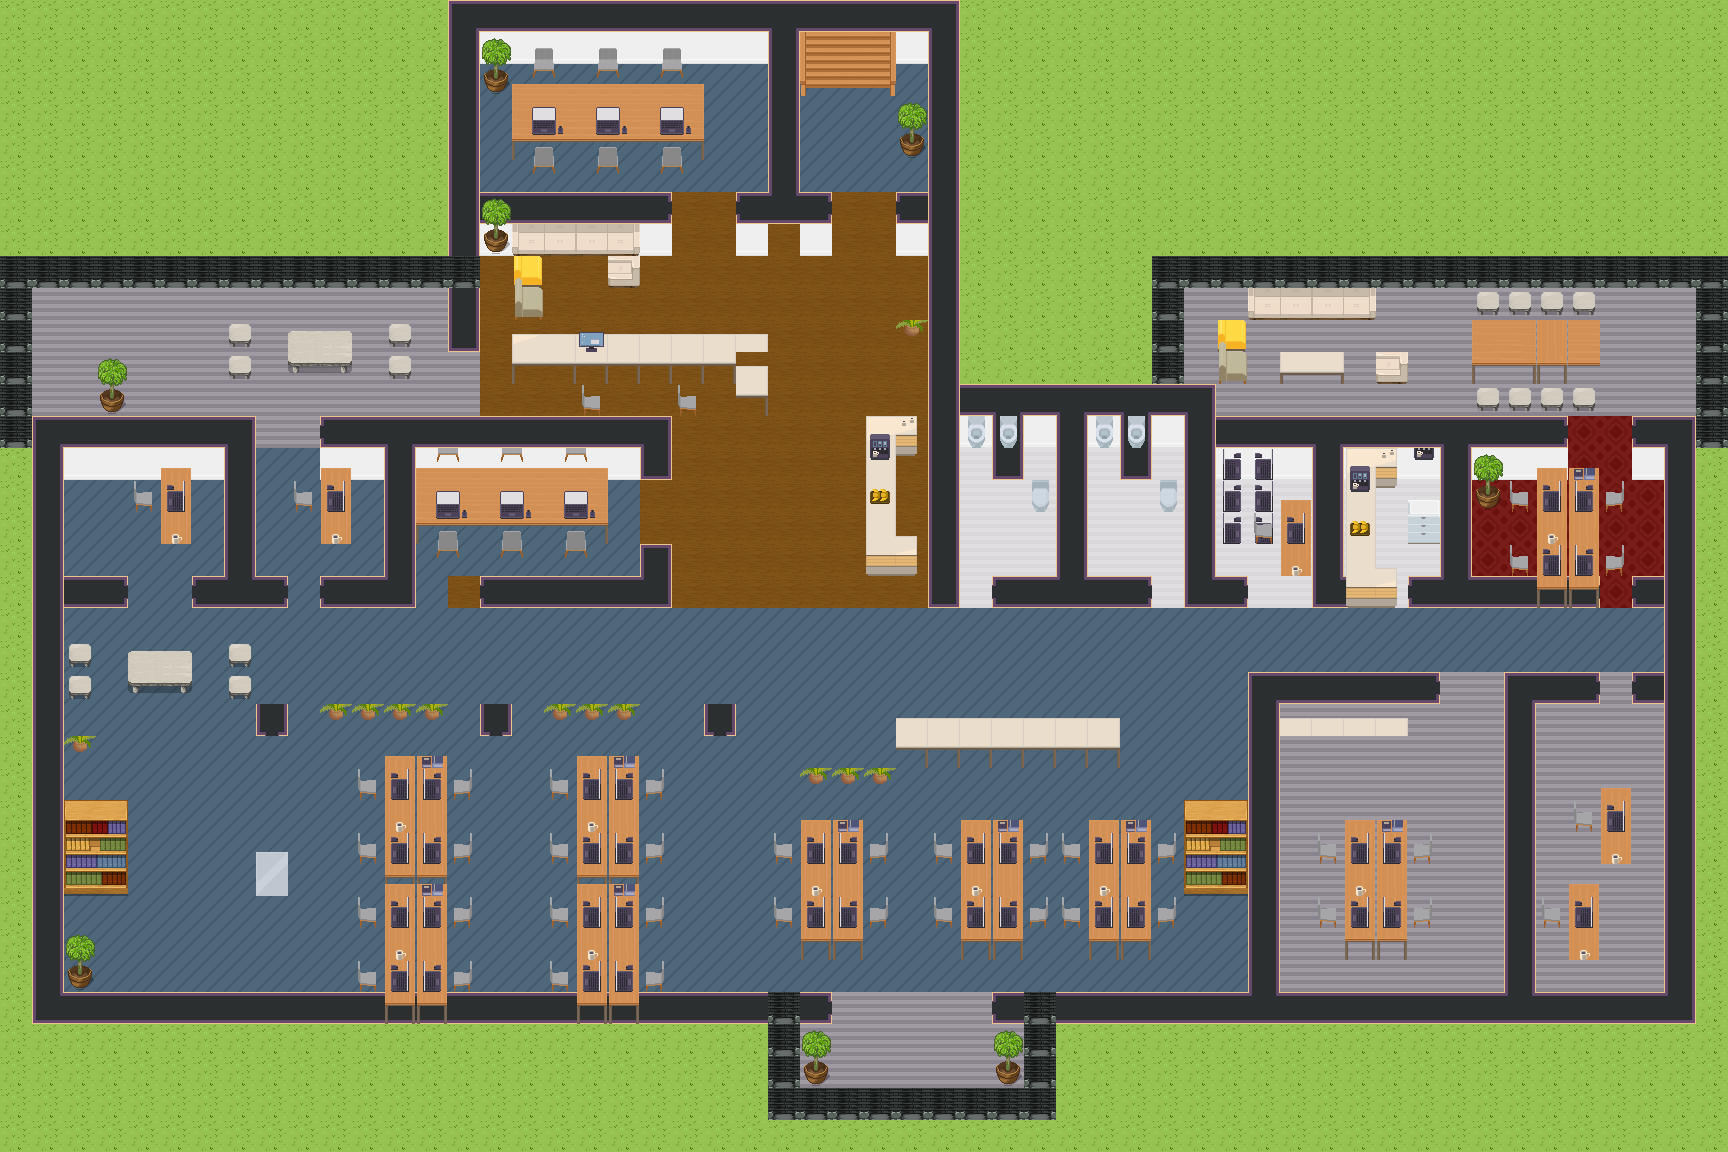
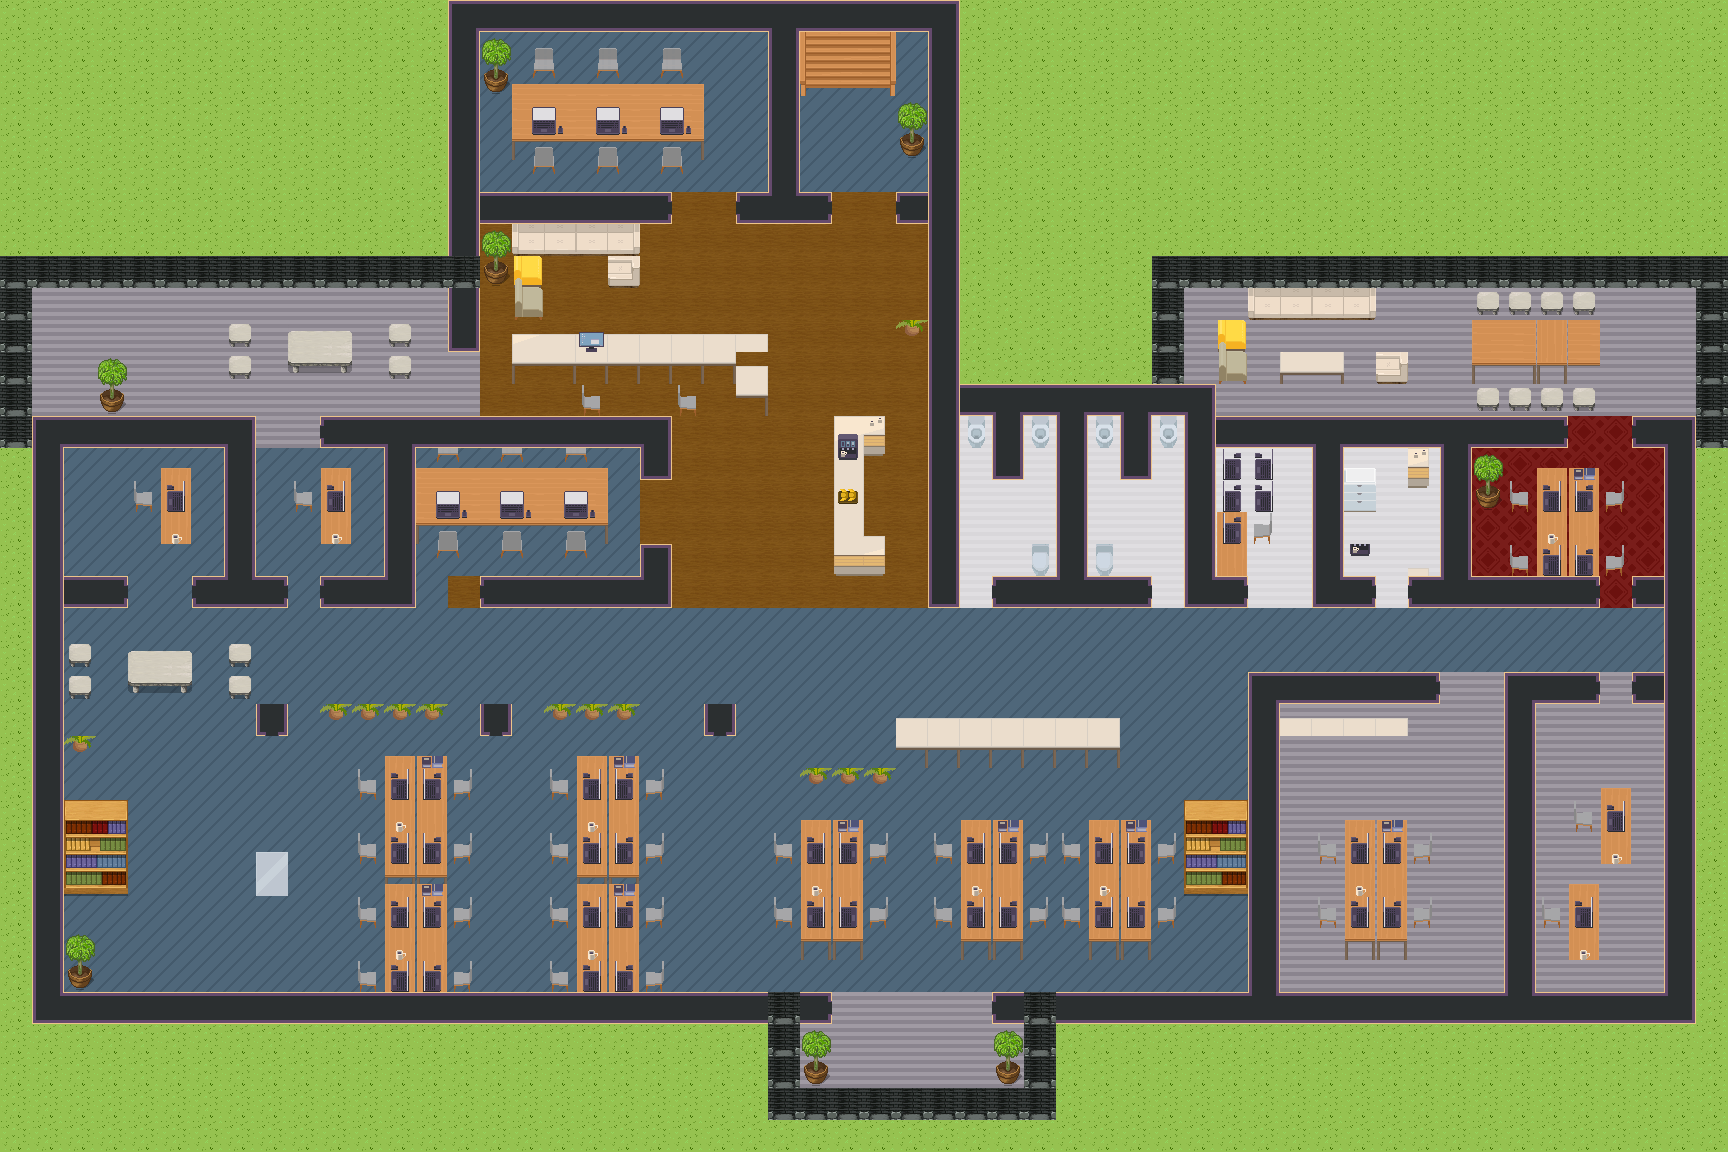
Fix furniture overlapping walls, make all toilets and the kitchen reachable
Add a build-time check for furniture on walls and unreachable floor.

diff --git a/build.py b/build.py
@@ -123,7 +123,7 @@ for y in range(H):
 for (x, y) in list(WALL):
     if wall_tile(x, y) in (479, 403, 404, 535, 440, 438) and (x, y + 1) not in WALL and y + 1 < H \
             and inside[y + 1][x] and y + 1 not in (19, 23) and get('floor1', x, y + 1) not in (STONE, GRASS):
-        put('walls2', x, y + 1, FACE)
+        pass  # faces disabled: they ate the top row of every room
 
 # --- stamps copied from the starter-kit office ---
 FURN = ['furniture1', 'furniture2', 'furniture3', 'above1', 'above2']
@@ -158,7 +158,7 @@ def planter(x0, x1, y):
 # conference room: long table centred
 stamp(*LONGDESK, 16, 1); plant_big(15, 1)
 # lounge: plant, sofa + armchairs, curved reception desk, bar on the right
-plant_big(15, 6)
+plant_big(15, 7)
 stamp(2, 3, 4, 1, 16, 7)                       # sofa
 stamp(1, 4, 1, 2, 16, 8); stamp(6, 5, 1, 1, 19, 8)
 for x in range(16, 23):                        # reception counter, horizontal part
@@ -168,7 +168,7 @@ for y in range(10, 13):                        # reception counter, curved right
     obj('furniture1', 23, y, 1598 if y < 12 else 1608)
 put('furniture2', 18, 10, 110)                 # monitor
 stamp(10, 4, 1, 1, 18, 12, coll=False); stamp(10, 4, 1, 1, 21, 12, coll=False)
-stamp(*COUNTER, 27, 12)                        # bar
+stamp(*COUNTER, 26, 12)                        # bar (walkable lane behind it)
 plant_small(28, 10)
 # left balcony
 stamp(*OUT_TABLE, 7, 10)
@@ -188,18 +188,18 @@ stamp(10, 3, 2, 3, 4, 14); stamp(10, 3, 2, 3, 9, 14)
 stamp(12, 10, 6, 4, 13, 14)
 # WCs
 for bx in (30, 34):
-    obj('furniture1', bx, 13, 284); obj('furniture1', bx + 1, 13, 284); obj('furniture1', bx + 2, 15, 283)
+    obj('furniture1', bx, 13, 284); obj('furniture1', bx + 2, 13, 284); obj('furniture1', 32 if bx == 30 else 34, 17, 283)  # sink away from the door
 # server room: racks + admin desk
-for y in (14, 15, 16): obj('furniture1', 38, y, 133); obj('furniture1', 39, y, 134)
-stamp(10, 3, 2, 3, 39, 15)
+for y in (14, 15): obj('furniture1', 38, y, 133); obj('furniture1', 39, y, 134)
+stamp(12, 4, 2, 2, 38, 16)
 # kitchen: counter, coffee machine, fridge/printer cabinet
-stamp(*COUNTER, 42, 13); obj('furniture1', 44, 14, 165); obj('furniture1', 44, 15, 136); obj('furniture1', 44, 16, 146)
+stamp(2, 8, 1, 4, 44, 14); obj('furniture1', 42, 14, 136); obj('furniture1', 42, 15, 146); obj('furniture1', 42, 17, 165)
 # red meeting room
-plant_big(46, 14); stamp(*DESK4, 47, 14)
+plant_big(46, 14); stamp(10, 3, 4, 4, 47, 14)
 # open space: planters + desk clusters as in Gather
 planter(10, 13, 22); planter(17, 19, 22); planter(25, 27, 24)
-stamp(*DESK4, 11, 23); stamp(*DESK4, 11, 27)
-stamp(*DESK4, 17, 23); stamp(*DESK4, 17, 27)
+stamp(*DESK4, 11, 23); stamp(10, 3, 4, 4, 11, 27)
+stamp(*DESK4, 17, 23); stamp(10, 3, 4, 4, 17, 27)
 stamp(*DESK4, 24, 25)
 stamp(*DESK4, 29, 25); stamp(*DESK4, 33, 25)
 # white sideboard + games corner
@@ -287,3 +287,27 @@ for n in ['floor1', 'floor2', 'walls1', 'walls2', 'furniture1', 'furniture2', 'f
             if g: img.alpha_composite(tile(g), (x * 32, y * 32))
 img.convert('RGB').save(f'{KIT}/elunic-office.png')
 print('ok', len(WALL))
+
+# --- sanity checks: furniture on walls, unreachable floor ---
+def check():
+    issues = []
+    for (x, y) in WALL:
+        for n in FURN:
+            if get(n, x, y): issues.append(f'furniture {n} on wall at {x},{y}')
+    for y in range(H):
+        for x in range(W):
+            if get('walls2', x, y) == FACE and any(get(n, x, y) for n in FURN):
+                issues.append(f'furniture on wall face at {x},{y}')
+    from collections import deque
+    start = [(x, y) for y in range(H) for x in range(W) if get('start', x, y)]
+    seen = set(start); q = deque(start)
+    while q:
+        x, y = q.popleft()
+        for dx, dy in ((1, 0), (-1, 0), (0, 1), (0, -1)):
+            nx, ny = x + dx, y + dy
+            if 0 <= nx < W and 0 <= ny < H and (nx, ny) not in seen and not get('collisions', nx, ny):
+                seen.add((nx, ny)); q.append((nx, ny))
+    unreach = [(x, y) for y in range(H) for x in range(W) if inside[y][x] and not get('collisions', x, y) and (x, y) not in seen]
+    return issues, unreach
+issues, unreach = check()
+print('\n'.join(issues)); print('unreachable', len(unreach), sorted(unreach, key=lambda c: (c[1], c[0])))
